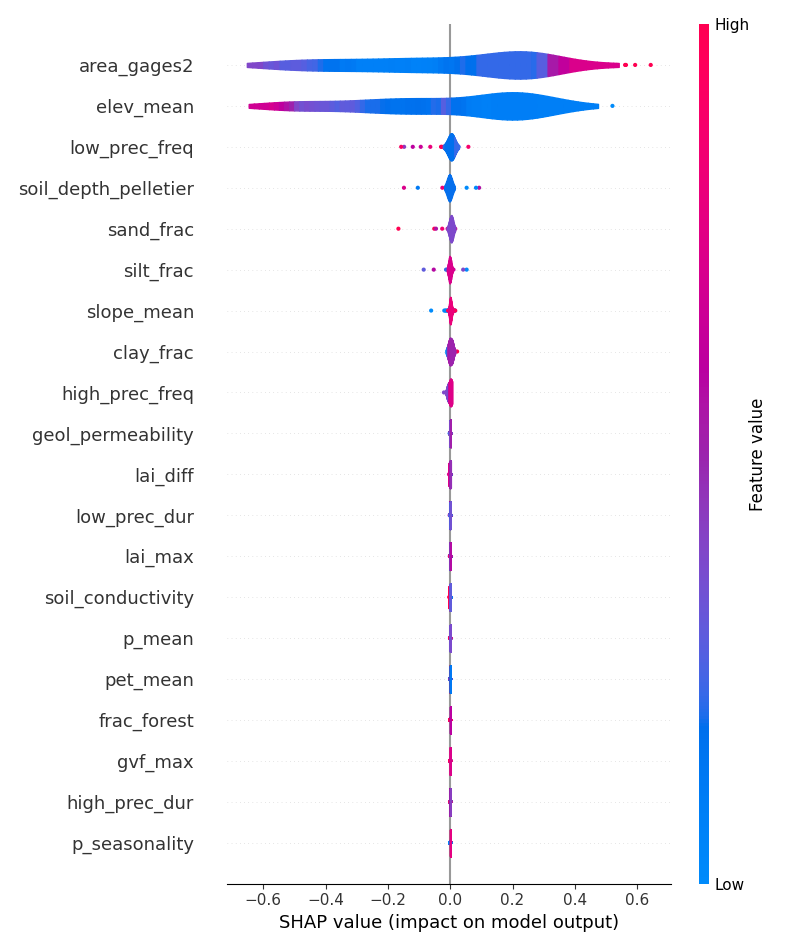
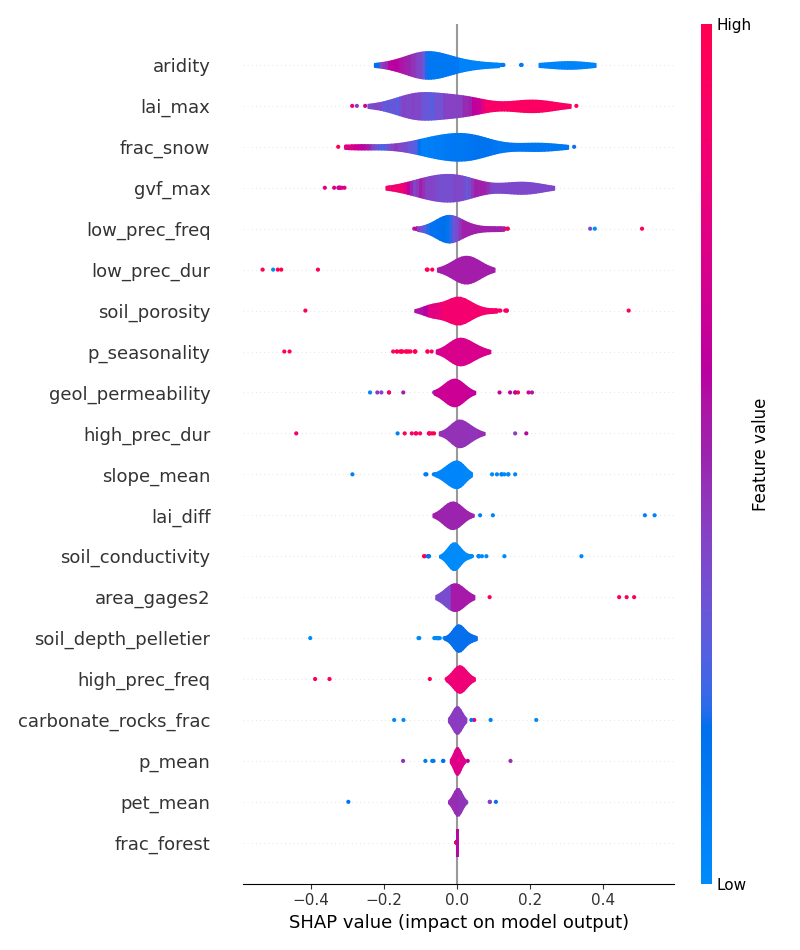
making the coder more roubst

diff --git a/src/analyse_results_NSE_basins.py b/src/analyse_results_NSE_basins.py
@@ -97,9 +97,9 @@ def analyse_results_by_decision_tree(csv_results_file_with_static_attr):
 
 def get_clf_from_clf_name(clf_name):
     if clf_name == "decision_tree":
-        clf = DecisionTreeClassifier(random_state=0, max_depth=1)
+        clf = DecisionTreeClassifier(random_state=0, max_depth=7)
     elif clf_name == "random_forest":
-        clf = RandomForestClassifier(random_state=0, max_depth=1)
+        clf = RandomForestClassifier(random_state=0, max_depth=7)
     elif clf_name == "logistic_regression":
         clf = LogisticRegression(max_iter=10000)
     elif clf_name == "KNN_cls":
@@ -130,11 +130,11 @@ def analyse_results_feat_importance_by_permutation(csv_results_file_with_static_
     clf = get_clf_from_clf_name(clf_name)
     clf, df_results = fit_clf_analysis(csv_results_file_with_static_attr, clf)
     create_accumulated_local_effects_and_shap_values(csv_results_file_with_static_attr, clf)
-
+    importance = get_feature_importance_from_trained_clf(clf, clf_name, df_results)
     plt.figure(figsize=(25, 20))
     plt.xticks(rotation=90)
     plt.bar([x for x in df_results.columns[:-1]], importance)
-    plt.savefig("analysis_permutation.png")
+    plt.savefig(f"feature_importance_{clf_name}.png")
 
 
 def create_CAMELS_dataset():
@@ -243,7 +243,7 @@ def main():
     # create_class_activation_maps_explainable("../checkpoints/TWO_LSTM_CNN_LSTM_epoch_number_30_size_above_1000.pt")
     plt.rc('font', size=12)
     # analyse_results_by_decision_tree("17775252_17782018_17828539_17832148.csv")
-    analyse_results_feat_importance_by_permutation("17775252_17782018_17828539_17832148.csv")
+    analyse_results_feat_importance_by_permutation("17775252_17782018_17828539_17832148.csv", "decision_tree")
 
 
 if __name__ == "__main__":
